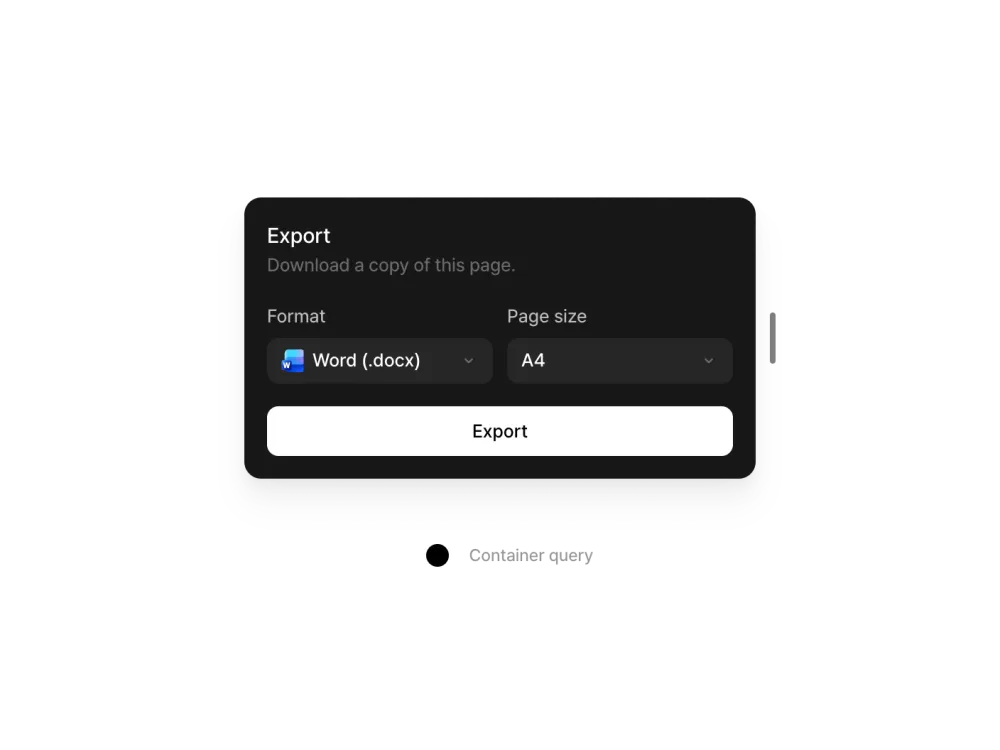
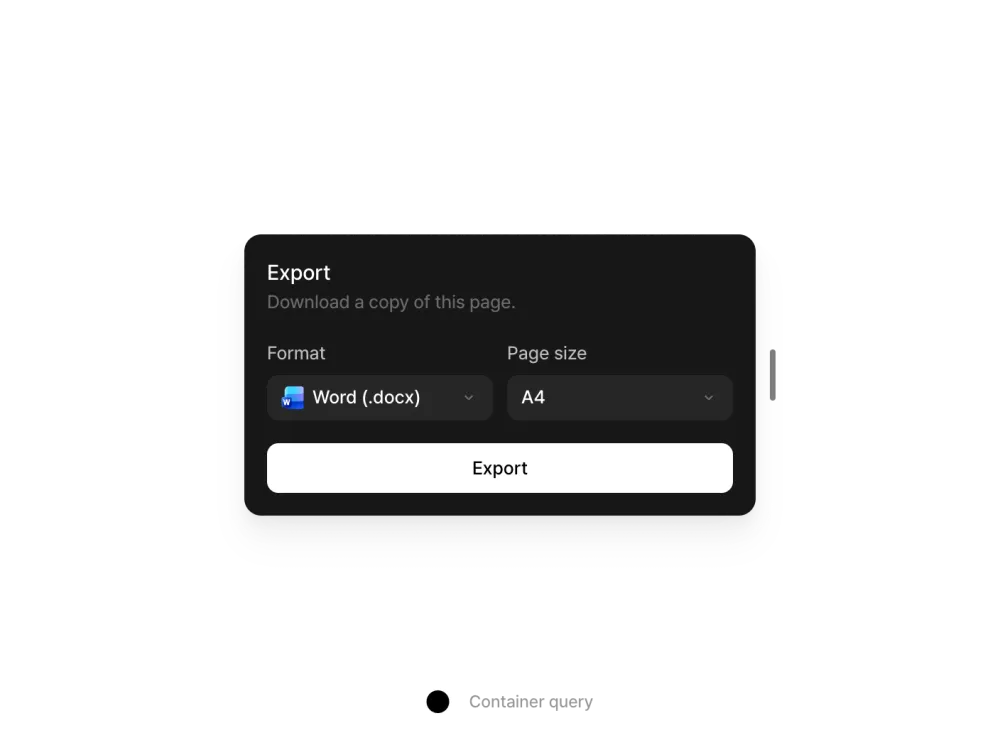
fix: switch

diff --git a/src/features/experiments/components/container-query-demo.tsx b/src/features/experiments/components/container-query-demo.tsx
@@ -42,7 +42,7 @@ export const ContainerQuery = () => {
   };
 
   return (
-    <div className="flex w-full max-w-full flex-col items-center justify-center gap-8 px-8 py-6">
+    <div className="relative flex h-full w-full max-w-full flex-col items-center justify-center px-8 py-6">
       <div
         ref={frameRef}
         style={{ width }}
@@ -79,7 +79,9 @@ export const ContainerQuery = () => {
         </button>
       </div>
 
-      <label className="inline-flex select-none items-center gap-3 text-xs text-tertiary">
+      {/* Pinned to the demo's bottom edge, out of the flex flow: the frame grows and
+          shrinks while dragging, and the control must never shift with it. */}
+      <label className="absolute bottom-6 left-1/2 inline-flex -translate-x-1/2 select-none items-center gap-3 text-xs text-tertiary">
         <Toggle checked={contained} onCheckedChange={setContained} />
         <span>Container query</span>
       </label>
